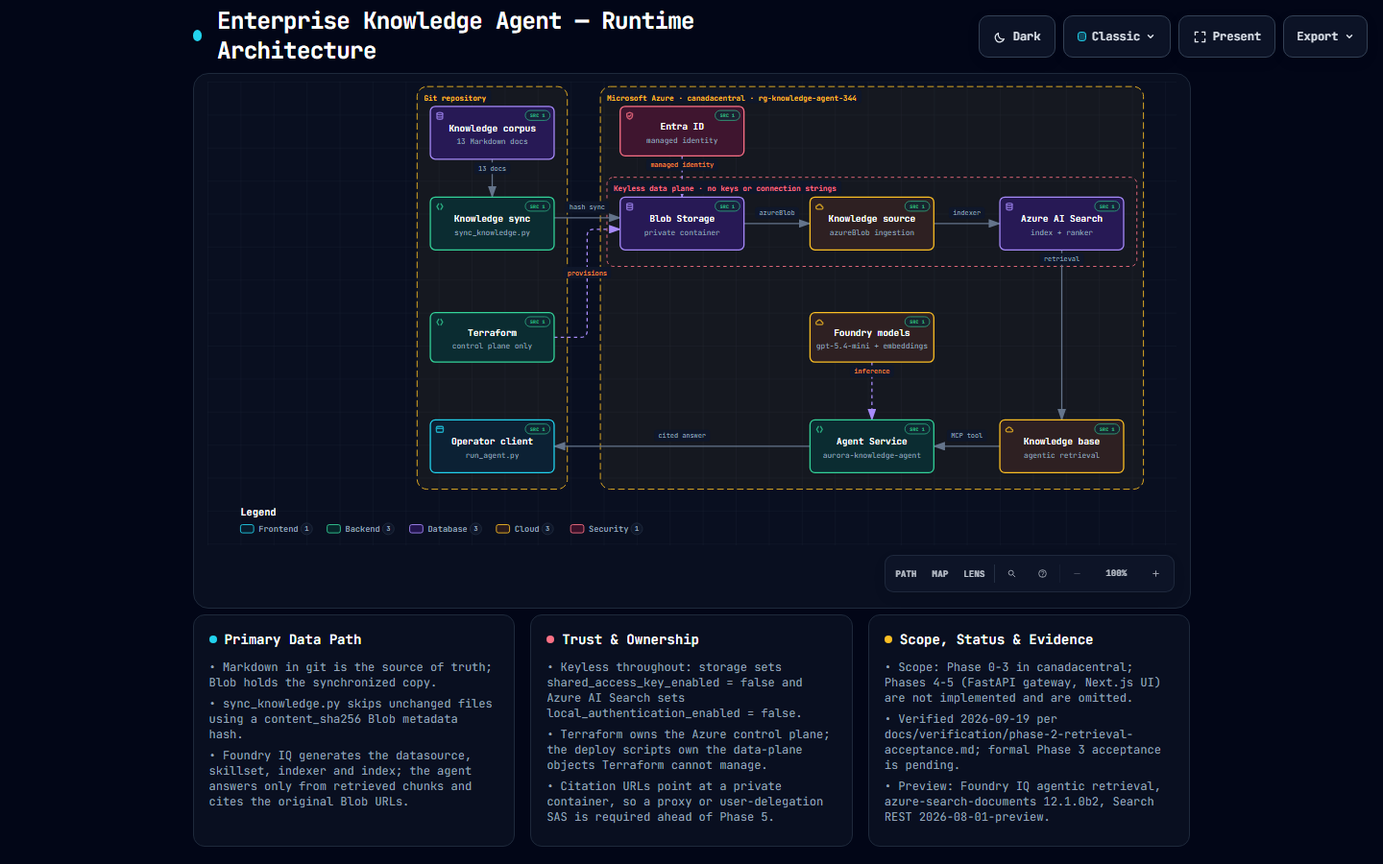
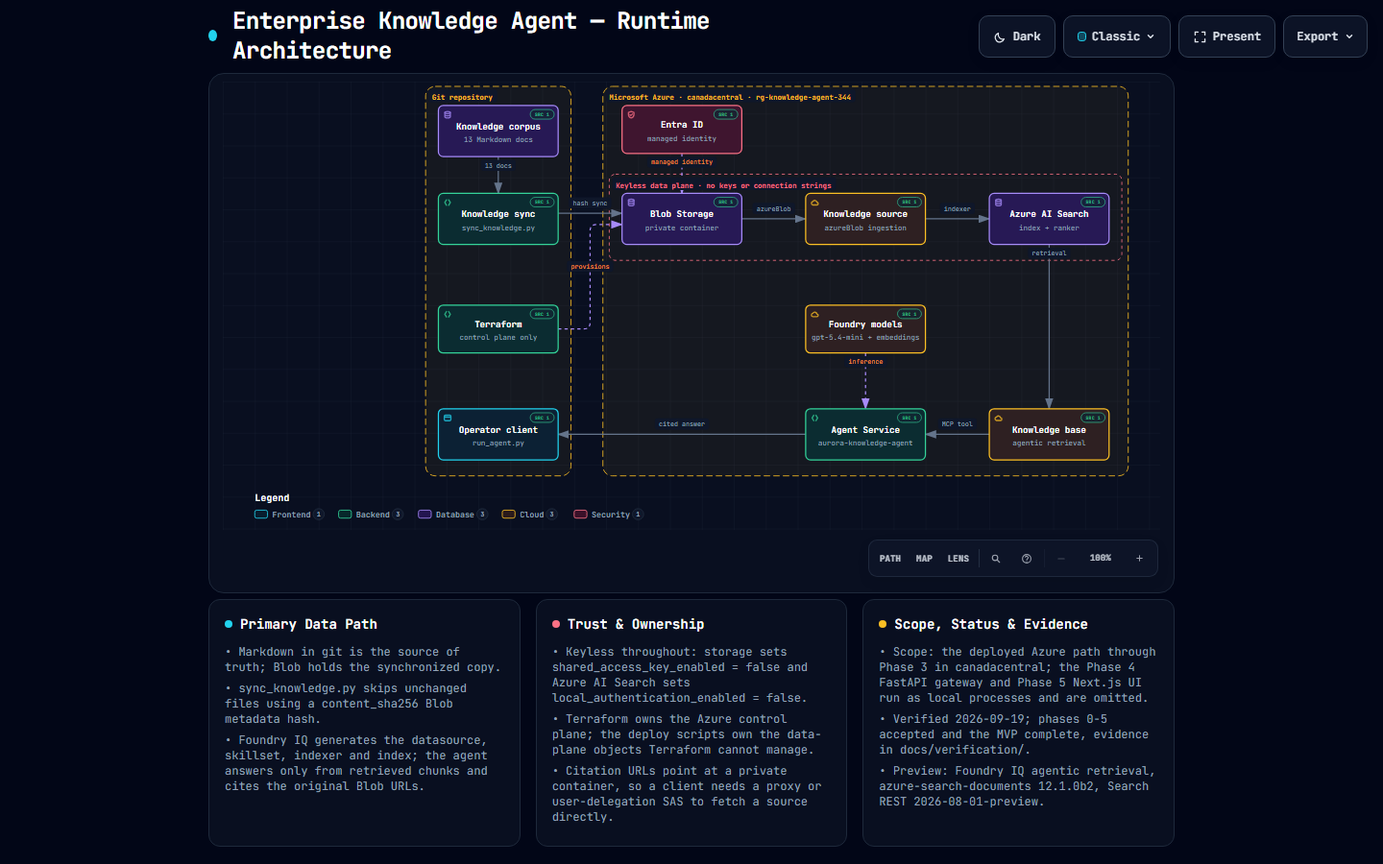
docs: regenerate the runtime architecture artifacts with archify
The diagram had been hand-edited, which broke its provenance: the HTML no longer came from a validated delivery. Regenerated it from the corrected specification through deliver, so the artifact now carries a real validation receipt, and refreshed the visual-check captures.

Delivery receipt: 9 of 9 artifact checks passed, 0 errors, 0 warnings, composition pass. Specification sha256 654fb887, artifact sha256 183bf521.

Two further corrections. The evidence anchor was pinned to revision 17600e4, seven commits behind and predating the Phase 4 and Phase 5 work the diagram now describes, so it is repinned to the current revision. And the status card still read 'phases 2 and 3 accepted', which is incomplete now that all phases through 5 are accepted and the MVP is complete.

diff --git a/docs/diagrams/runtime-architecture.html b/docs/diagrams/runtime-architecture.html
@@ -5086,7 +5086,7 @@ OTHER DEALINGS IN THE FONT SOFTWARE.
     </div>
 
     <script id="archify-guided-views-data" type="application/json">[]</script>
-    <script id="archify-source-evidence-data" type="application/json">{"schemaVersion":1,"verified":true,"repository":{"url":"https://github.com/MRJonas343/enterprise-knowledge-agent","revision":"17600e4fd0e994964ec6b8299c92c7102ce6a564","shortRevision":"17600e4","label":"MRJonas343/enterprise-knowledge-agent","href":"https://github.com/MRJonas343/enterprise-knowledge-agent/tree/17600e4fd0e994964ec6b8299c92c7102ce6a564"},"referenceCount":11,"nodes":{"corpus":[{"path":"docs/verification/phase-2-retrieval-acceptance.md","line":63,"href":"https://github.com/MRJonas343/enterprise-knowledge-agent/blob/17600e4fd0e994964ec6b8299c92c7102ce6a564/docs/verification/phase-2-retrieval-acceptance.md#L63"}],"sync":[{"path":"src/scripts/sync_knowledge.py","line":144,"href":"https://github.com/MRJonas343/enterprise-knowledge-agent/blob/17600e4fd0e994964ec6b8299c92c7102ce6a564/src/scripts/sync_knowledge.py#L144"}],"blob":[{"path":"infra/terraform/storage.tf","line":2,"href":"https://github.com/MRJonas343/enterprise-knowledge-agent/blob/17600e4fd0e994964ec6b8299c92c7102ce6a564/infra/terraform/storage.tf#L2"}],"source":[{"path":"src/scripts/deploy_knowledge_base.py","line":92,"href":"https://github.com/MRJonas343/enterprise-knowledge-agent/blob/17600e4fd0e994964ec6b8299c92c7102ce6a564/src/scripts/deploy_knowledge_base.py#L92"}],"search":[{"path":"infra/terraform/search.tf","line":2,"href":"https://github.com/MRJonas343/enterprise-knowledge-agent/blob/17600e4fd0e994964ec6b8299c92c7102ce6a564/infra/terraform/search.tf#L2"}],"kb":[{"path":"src/scripts/deploy_knowledge_base.py","line":115,"href":"https://github.com/MRJonas343/enterprise-knowledge-agent/blob/17600e4fd0e994964ec6b8299c92c7102ce6a564/src/scripts/deploy_knowledge_base.py#L115"}],"agent":[{"path":"src/scripts/deploy_agent.py","line":138,"href":"https://github.com/MRJonas343/enterprise-knowledge-agent/blob/17600e4fd0e994964ec6b8299c92c7102ce6a564/src/scripts/deploy_agent.py#L138"}],"client":[{"path":"src/enterprise_knowledge_agent/run_agent.py","line":87,"href":"https://github.com/MRJonas343/enterprise-knowledge-agent/blob/17600e4fd0e994964ec6b8299c92c7102ce6a564/src/enterprise_knowledge_agent/run_agent.py#L87"}],"identity":[{"path":"infra/terraform/storage.tf","line":11,"href":"https://github.com/MRJonas343/enterprise-knowledge-agent/blob/17600e4fd0e994964ec6b8299c92c7102ce6a564/infra/terraform/storage.tf#L11"}],"models":[{"path":"infra/terraform/main.tf","line":59,"href":"https://github.com/MRJonas343/enterprise-knowledge-agent/blob/17600e4fd0e994964ec6b8299c92c7102ce6a564/infra/terraform/main.tf#L59"}],"terraform":[{"path":"infra/terraform/main.tf","line":2,"href":"https://github.com/MRJonas343/enterprise-knowledge-agent/blob/17600e4fd0e994964ec6b8299c92c7102ce6a564/infra/terraform/main.tf#L2"}]}}</script>
+    <script id="archify-source-evidence-data" type="application/json">{"schemaVersion":1,"verified":true,"repository":{"url":"https://github.com/MRJonas343/enterprise-knowledge-agent","revision":"56497a262202e9e9a12d956f1367487531ea5521","shortRevision":"56497a2","label":"MRJonas343/enterprise-knowledge-agent","href":"https://github.com/MRJonas343/enterprise-knowledge-agent/tree/56497a262202e9e9a12d956f1367487531ea5521"},"referenceCount":11,"nodes":{"corpus":[{"path":"docs/verification/phase-2-retrieval-acceptance.md","line":63,"href":"https://github.com/MRJonas343/enterprise-knowledge-agent/blob/56497a262202e9e9a12d956f1367487531ea5521/docs/verification/phase-2-retrieval-acceptance.md#L63"}],"sync":[{"path":"src/scripts/sync_knowledge.py","line":144,"href":"https://github.com/MRJonas343/enterprise-knowledge-agent/blob/56497a262202e9e9a12d956f1367487531ea5521/src/scripts/sync_knowledge.py#L144"}],"blob":[{"path":"infra/terraform/storage.tf","line":2,"href":"https://github.com/MRJonas343/enterprise-knowledge-agent/blob/56497a262202e9e9a12d956f1367487531ea5521/infra/terraform/storage.tf#L2"}],"source":[{"path":"src/scripts/deploy_knowledge_base.py","line":92,"href":"https://github.com/MRJonas343/enterprise-knowledge-agent/blob/56497a262202e9e9a12d956f1367487531ea5521/src/scripts/deploy_knowledge_base.py#L92"}],"search":[{"path":"infra/terraform/search.tf","line":2,"href":"https://github.com/MRJonas343/enterprise-knowledge-agent/blob/56497a262202e9e9a12d956f1367487531ea5521/infra/terraform/search.tf#L2"}],"kb":[{"path":"src/scripts/deploy_knowledge_base.py","line":115,"href":"https://github.com/MRJonas343/enterprise-knowledge-agent/blob/56497a262202e9e9a12d956f1367487531ea5521/src/scripts/deploy_knowledge_base.py#L115"}],"agent":[{"path":"src/scripts/deploy_agent.py","line":138,"href":"https://github.com/MRJonas343/enterprise-knowledge-agent/blob/56497a262202e9e9a12d956f1367487531ea5521/src/scripts/deploy_agent.py#L138"}],"client":[{"path":"src/enterprise_knowledge_agent/run_agent.py","line":87,"href":"https://github.com/MRJonas343/enterprise-knowledge-agent/blob/56497a262202e9e9a12d956f1367487531ea5521/src/enterprise_knowledge_agent/run_agent.py#L87"}],"identity":[{"path":"infra/terraform/storage.tf","line":11,"href":"https://github.com/MRJonas343/enterprise-knowledge-agent/blob/56497a262202e9e9a12d956f1367487531ea5521/infra/terraform/storage.tf#L11"}],"models":[{"path":"infra/terraform/main.tf","line":59,"href":"https://github.com/MRJonas343/enterprise-knowledge-agent/blob/56497a262202e9e9a12d956f1367487531ea5521/infra/terraform/main.tf#L59"}],"terraform":[{"path":"infra/terraform/main.tf","line":2,"href":"https://github.com/MRJonas343/enterprise-knowledge-agent/blob/56497a262202e9e9a12d956f1367487531ea5521/infra/terraform/main.tf#L2"}]}}</script>
     <script id="archify-i18n-data" type="application/json">{"locale":"en","messages":{"viewer.kind.frontend":"Frontend","viewer.kind.backend":"Backend","viewer.kind.database":"Database","viewer.kind.cloud":"Cloud","viewer.kind.security":"Security","viewer.kind.messagebus":"Message bus","viewer.kind.external":"External","viewer.kind.neutral":"Neutral","viewer.kind.node":"Node","viewer.kind.start":"Start","viewer.kind.active":"Active","viewer.kind.waiting":"Waiting","viewer.kind.decision":"Decision","viewer.kind.success":"Success","viewer.kind.failure":"Failure","viewer.toolbar.actions":"Diagram actions","viewer.theme.toggle.title":"Toggle theme (T)","viewer.theme.toggle":"Toggle color theme","viewer.theme.dark":"Dark","viewer.theme.light":"Light","viewer.preset.choose.title":"Choose visual style (S cycles)","viewer.preset.choose":"Choose visual style","viewer.preset.style":"Style","viewer.preset.menu":"Visual style","viewer.preset.identity":"Visual identity","viewer.preset.cycles":"S cycles","viewer.preset.classic":"Classic","viewer.preset.classic.short":"Classic","viewer.preset.classic.hint":"Stable technical default","viewer.preset.flow":"Signal Flow","viewer.preset.flow.short":"Flow","viewer.preset.flow.hint":"Motion-forward presentation","viewer.preset.blueprint":"Blueprint","viewer.preset.blueprint.hint":"Engineering review","viewer.preset.editorial":"Editorial","viewer.preset.editorial.hint":"Publication and launch notes","viewer.preset.badge.signalFlow":"SIGNAL FLOW","viewer.preset.badge.blueprint":"BLUEPRINT / REV 01","viewer.preset.badge.editorial":"EDITORIAL / FIELD NOTE","viewer.preset.badge.editorialPlate":"ARCHIFY / PLATE 04","viewer.preset.current":"Visual style: {style}. Choose visual style","viewer.motion.live":"Live","viewer.motion.still":"Still","viewer.motion.pause":"Pause motion","viewer.motion.resume":"Resume motion","viewer.motion.reduced":"Motion paused by reduced-motion preference","viewer.motion.hidden":"Motion paused while this page is hidden","viewer.motion.yielding":"Pause motion; currently yielding to {owner}","viewer.motion.yielding.title":"Live preview enabled · yielding to {owner}","viewer.owner.story":"the guided story","viewer.owner.chapter":"the active chapter","viewer.owner.chapterPreview":"the chapter delta preview","viewer.owner.handoff":"the chapter handoff","viewer.owner.route":"Route Probe","viewer.owner.lens":"Semantic Lens","viewer.owner.relationship":"Relationship Preview","viewer.owner.intent":"Intent Trace","viewer.owner.focus":"semantic focus","viewer.owner.legend":"legend preview","viewer.owner.reader":"reader interaction","viewer.present.enter":"Enter presentation stage","viewer.present.enter.title":"Presentation stage (F)","viewer.present.exit":"Exit presentation stage","viewer.present.exit.title":"Exit presentation stage (F or Escape)","viewer.present.present":"Present","viewer.present.exit.label":"Exit","viewer.export.button":"Export","viewer.export.button.title":"Export diagram (E)","viewer.export.diagram":"Export diagram","viewer.export.menu":"Export","viewer.export.subtitle":"Portable, clean outputs","viewer.export.share":"Share","viewer.export.shareCard":"Share Card","viewer.export.routeShareCard":"Route Share Card","viewer.export.reachShareCard":"Reach Share Card","viewer.export.copyShareCard":"Copy Share Card","viewer.export.copyDiagram":"Copy diagram","viewer.export.clipboardPng":"PNG to clipboard","viewer.export.raster":"Raster images","viewer.export.image":"Image","viewer.export.lossless":"Lossless image","viewer.export.compact":"Compact image","viewer.export.modern":"Modern image","viewer.export.vectorMotion":"Vector and motion","viewer.export.vectorMotion.heading":"Vector \u0026 motion","viewer.export.editable":"Editable vector","viewer.export.motion6s":"6s motion","viewer.export.unsupported":"Not supported by this browser","viewer.export.clipboardUnsupported":"Clipboard image write not supported by this browser","viewer.export.clipboardUnsupported.period":"Clipboard image write not supported by this browser.","viewer.export.clipboardUnsupported.short":"Clipboard image write not supported in this browser.","viewer.export.motionUnavailable":"Motion capture unavailable in this browser","viewer.export.webmUnavailable":"WebM unavailable in this browser","viewer.export.failed":"Export failed: {message}","viewer.export.unknownVariant":"Unknown Share Card variant: {variant}","viewer.export.routeRequired":"Trace a route before exporting a Route Share Card","viewer.export.reachRequired":"Trace authored reach before exporting a Reach Share Card","viewer.export.unknown":"unknown","viewer.export.routeFailed":"Route Share Card export failed: {message}","viewer.export.reachFailed":"Reach Share Card export failed: {message}","viewer.export.copyFailed":"Copy failed: {message}","viewer.export.copiedPng":"Copied PNG to clipboard","viewer.export.copiedShare":"Copied Share Card","viewer.export.downloadedShare":"Downloaded Share Card","viewer.export.downloadedRoute":"Downloaded Route Share Card","viewer.export.downloadedReach":"Downloaded Reach Share Card","viewer.export.downloadedWebm":"Downloaded WebM","viewer.export.recording":"Recording 6 seconds of motion…","viewer.export.card.routeSummary.one":"Route: {source} → {target} · {count} directed hop","viewer.export.card.routeSummary.other":"Route: {source} → {target} · {count} directed hops","viewer.export.card.reachSummary":"Authored {direction} from {origin} · {nodes} · {links} · max {hops}","viewer.export.card.node.one":"{count} node","viewer.export.card.node.other":"{count} nodes","viewer.export.card.link.one":"{count} link","viewer.export.card.link.other":"{count} links","viewer.export.card.hop.one":"{count} hop","viewer.export.card.hop.other":"{count} hops","viewer.export.card.routeBadge":"ARCHIFY · ROUTE · {hops}","viewer.export.card.reachBadge":"ARCHIFY · {direction} REACH","viewer.export.card.defaultBadge":"ARCHIFY · {preset} · {theme}","viewer.export.direction.upstream":"Upstream","viewer.export.direction.downstream":"Downstream","viewer.export.error.canvasUnavailable":"Canvas unavailable for {label}","viewer.export.error.contextUnavailable":"2D canvas context unavailable for {label}","viewer.export.error.toBlobUnavailable":"canvas.toBlob unavailable for {label}","viewer.export.error.toBlobNull":"canvas.toBlob returned no data for {label}","viewer.export.error.variantsCombined":"Share Card variants cannot be combined","viewer.export.error.viewerState":"Share Card export could not remove temporary viewer state","viewer.export.error.routeState":"Route Card export could not preserve the resolved route safely","viewer.export.error.reachState":"Reach Card export could not preserve authored reach safely","viewer.export.error.webmRequirements":"WebM motion export requires a trace animation and browser MediaRecorder support","viewer.export.error.mediaRecorder":"MediaRecorder failed","viewer.export.error.emptyWebm":"MediaRecorder produced an empty WebM","viewer.export.error.webmBackground":"SVG background could not be loaded for WebM export","viewer.guided.region":"Guided diagram views","viewer.guided.previous":"Previous guided view","viewer.guided.previous.title":"Previous guided view ([)","viewer.guided.next":"Next guided view","viewer.guided.next.title":"Next guided view (])","viewer.guided.views":"Guided views","viewer.guided.explore":"Explore this system","viewer.guided.intro":"Step through curated paths without changing the source diagram.","viewer.guided.trail":"Story trail","viewer.guided.beat":"Beat","viewer.guided.nextBeat":"Next","viewer.guided.play":"Play guided story","viewer.guided.play.title":"Play guided story (P)","viewer.guided.pause":"Pause guided story","viewer.guided.pause.title":"Pause guided story (P)","viewer.guided.replay":"Replay guided story","viewer.guided.replay.title":"Replay guided story (P)","viewer.guided.playStory":"Play story","viewer.guided.pauseStory":"Pause","viewer.guided.replayStory":"Replay story","viewer.guided.motionUnavailable":"Story playback unavailable while motion is Still","viewer.guided.enableMotion":"Switch motion to Live to play the guided story","viewer.guided.selectBeatLink":"Select a Story Beat to copy its exact link","viewer.guided.copyMoment":"Copy moment","viewer.guided.momentCopied":"Moment link copied","viewer.guided.momentCopyFailed":"Could not copy story moment link","viewer.guided.copied":"Copied","viewer.guided.copyFailed":"Copy failed","viewer.guided.showAll":"Show all","viewer.guided.showAll.aria":"Show entire diagram","viewer.guided.chapters":"Story chapters","viewer.guided.storyTrail":"Story trail for {label}: {count} beats","viewer.guided.chapter.open":"Open chapter {index} of {total}: {label}, {count} stops","viewer.guided.chapter.current":"Current chapter {index} of {total}: {label}, {count} stops","viewer.guided.chapter.selectedNodes":"{count} selected nodes","viewer.guided.chapter.stops":"{count} stops","viewer.guided.chapter.stop.one":"{count} stop","viewer.guided.chapter.stop.other":"{count} stops","viewer.guided.chapter.current.title":"{label} — current chapter, {count} stops","viewer.guided.chapter.delta.expanded":"{stay} stay, {enter} enter, {leave} leave","viewer.guided.chapter.delta.aria":"Open chapter {index} of {total}: {label}. Chapter focus delta: {delta}","viewer.guided.chapter.delta.title":"{label} — {delta} chapter focus","viewer.guided.handoff":"{from} → {to} · via {label}","viewer.guided.share.chapter":"Chapter {index} / {total}","viewer.guided.share.initial":"Chapter 01 / 01","viewer.guided.share.default":"Guided chapter","viewer.guided.state.ready":"Ready","viewer.guided.state.playing":"Playing","viewer.guided.state.settled":"Settled","viewer.guided.state.paused":"Paused","viewer.guided.state.pinned":"Pinned","viewer.guided.state.still":"Still","viewer.guided.share.step":"Step {index} / {total} · {label}","viewer.guided.share.staticMoment":"{step} · Static moment","viewer.guided.share.complete":"{count} steps complete · {note}","viewer.guided.share.settled":"Path settled for reading.","viewer.guided.share.staticPath":"{count} steps · Static path","viewer.guided.share.ready":"{count} steps · Ready","viewer.guided.share.aria":"{state} chapter {index} of {total}: {label}. {beat}. {route}","viewer.guided.beat.start":"Beat {index} / {total} · {label} · starting point","viewer.guided.beat.forward":"Beat {index} / {total} · {from} → {to}","viewer.guided.beat.reverse":"Beat {index} / {total} · {from} → {to} · reverse authored link","viewer.guided.beat.multiple":"Beat {index} / {total} · {from} ⇄ {to} · {count} authored links","viewer.guided.beat.group":"Beat {index} / {total} · {from} · {to} · grouped · no direct link","viewer.guided.beat.aria.prefix":"Story beat {index} of {total}: {label}. ","viewer.guided.beat.aria.start":"Starting point.","viewer.guided.beat.aria.forward":"From {from} through one authored forward relationship.","viewer.guided.beat.aria.reverse":"From {from}; the authored relationship points from {to} to {from}.","viewer.guided.beat.aria.multiple":"From {from} through {count} authored relationships; shown without arbitrary motion.","viewer.guided.beat.aria.group":"Grouped from {from} with no direct authored relationship.","viewer.guided.caption.start":"Starting point","viewer.guided.caption.grouped":"Grouped transition · no direct authored link","viewer.guided.caption.more":" +{count} more","viewer.guided.caption.reverse":"Reverse authored relationship","viewer.guided.caption.relationships":"{count} authored relationships","viewer.guided.caption.relationship":"Authored relationship","viewer.guided.caption.direction":"authored direction: {from} → {to}","viewer.guided.caption.starting":"Authored starting point","viewer.guided.beatLink":"Copy link to current story moment: Beat {index} of {total}: {label}","viewer.guided.noStory":"This diagram has no authored guided story.","viewer.guide.eyebrow":"Diagram guide","viewer.guide.close":"Close diagram guide","viewer.guide.inspecting":"Inspecting compiled semantics","viewer.guide.actions":"Diagram exploration actions","viewer.guide.find":"Find any node","viewer.guide.find.hint":"Search labels, responsibilities, kinds, and stable IDs.","viewer.guide.route":"Trace a route","viewer.guide.route.aria":"Trace a directed route","viewer.guide.route.hint":"Ask how two semantic nodes connect in authored direction.","viewer.guide.map":"See the whole system","viewer.guide.map.hint":"Open Semantic Radar with a live viewport and stable nodes.","viewer.guide.lens":"Compare semantic kinds","viewer.guide.lens.hint":"Count roles, reveal their traffic, and compare direct authored links.","viewer.guide.story":"Play the guided story","viewer.guide.story.hint":"Walk the authored chapters and real relationships.","viewer.guide.present":"Enter Presentation Stage","viewer.guide.present.hint":"Give the live diagram the viewport without changing export.","viewer.guide.shortcuts":"Additional keyboard shortcuts","viewer.guide.shortcut.export":"Export","viewer.guide.shortcut.theme":"Theme","viewer.guide.shortcut.style":"Style","viewer.guide.shortcut.reset":"Reset","viewer.guide.shortcut.zoomIn":"Zoom in","viewer.guide.shortcut.zoomOut":"Zoom out","viewer.guide.shortcut.close":"Close","viewer.guide.facts":"{nodes} · {relationships} · {views}","viewer.guide.fact.node.one":"{count} semantic node","viewer.guide.fact.node.other":"{count} semantic nodes","viewer.guide.fact.relationship.one":"{count} relationship","viewer.guide.fact.relationship.other":"{count} relationships","viewer.guide.fact.view.one":"{count} guided view","viewer.guide.fact.view.other":"{count} guided views","viewer.guide.story.available.one":"Walk {count} authored chapter and its real relationships.","viewer.guide.story.available.other":"Walk {count} authored chapters and their real relationships.","viewer.guide.story.unavailable":"No authored guided story in this diagram.","viewer.guide.open":"Open diagram guide","viewer.guide.noStory":"This diagram has no authored guided story.","viewer.finder.title":"Find a node","viewer.finder.close":"Close node finder","viewer.finder.placeholder":"Search labels or IDs","viewer.finder.search":"Search diagram nodes","viewer.finder.results":"Diagram nodes","viewer.finder.empty":"No matching nodes","viewer.finder.result.focus":"Focus {label}","viewer.finder.result.routeStart":"Choose {label} as route start","viewer.finder.result.routeTarget":"Choose {label} as route destination, {links}","viewer.finder.status.empty":"No matching nodes","viewer.finder.status.count.one":"{count} matching node","viewer.finder.status.count.other":"{count} matching nodes","viewer.finder.noun.nodes":"nodes","viewer.finder.link.one":"{count} link","viewer.finder.link.other":"{count} links","viewer.finder.result.focus.one":"Focus {label}, {count} related connection","viewer.finder.result.focus.other":"Focus {label}, {count} related connections","viewer.finder.status.filtered":"{visible} of {available} {noun}","viewer.finder.status.all":"{available} {noun}","viewer.passport.eyebrow":"Semantic passport","viewer.passport.metadata":"Node metadata","viewer.passport.evidence":"Verified source evidence","viewer.passport.verified":"Verified source","viewer.passport.verificationScope":"Verified against local Git at the pinned revision. Remote access has not been checked.","viewer.passport.reach":"Authored reach","viewer.passport.reach.trace":"Trace authored reachability","viewer.passport.upstream":"Upstream","viewer.passport.downstream":"Downstream","viewer.passport.upstream.trace":"Trace upstream authored reachability","viewer.passport.downstream.trace":"Trace downstream authored reachability","viewer.passport.close":"Close semantic passport","viewer.passport.copy":"Copy link","viewer.passport.copy.focus":"Copy link to focused node","viewer.passport.relations":"Relations","viewer.passport.relations.show":"Show connected relationships","viewer.passport.relations.hide":"Hide connected relationships","viewer.passport.relations.list":"Connected relationships","viewer.passport.copyRelation":"Copy relation","viewer.passport.copyNode":"Copy node","viewer.passport.copyPinned":"Copy link to pinned relationship","viewer.passport.copySource":"Copy link to source node","viewer.passport.copy.focused.success":"Focused node link copied","viewer.passport.copy.pinned.success":"Pinned relationship link copied","viewer.passport.copy.focused.failed":"Could not copy focused node link","viewer.passport.copy.pinned.failed":"Could not copy pinned relationship link","viewer.passport.relationship.none":"No connected relationships","viewer.passport.relationship.count.one":"{count} relation","viewer.passport.relationship.count.other":"{count} relations","viewer.passport.relationship.show.one":"Show {count} connected relationship","viewer.passport.relationship.show.other":"Show {count} connected relationships","viewer.passport.relationship.summary":"{out} outgoing · {in} incoming{loops}","viewer.passport.relationship.loops":" · {count} loop","viewer.passport.relationship.explorer":"Direct relationship explorer","viewer.passport.relationship.help":"Use arrow keys to explore relationships. Press Enter or Space to pin details; Escape clears.","viewer.passport.relationship.loopsBack":"loops back","viewer.passport.relationship.connectsTo":"connects to","viewer.passport.relationship.connectsFrom":"connects from","viewer.passport.relationship.pinned":"Pinned relationship · {from} → {to} · {label}","viewer.passport.relationship.inspect":"Inspect relationship {index} of {total}: {from} to {to}, {label}. Press Enter for details.","viewer.passport.relationship.group.out":"Outgoing","viewer.passport.relationship.group.in":"Incoming","viewer.passport.relationship.group.loop":"Self loops","viewer.passport.relationship.row":"{group}: {relationship}, {neighbor}","viewer.passport.relationship.direction.out":"OUT →","viewer.passport.relationship.direction.in":"← IN","viewer.passport.relationship.direction.loop":"LOOP","viewer.passport.sourceCount.one":"{count} verified source reference","viewer.passport.sourceCount.other":"{count} verified source references","viewer.passport.sourceMarker":"SRC","viewer.passport.beacon.one":"{count} verified source; focus this node to inspect","viewer.passport.beacon.other":"{count} verified sources; focus this node to inspect","viewer.passport.repository.open":"Open verified repository revision {revision}","viewer.passport.source.open":"Open verified source {path} at revision {revision}","viewer.passport.source.openLink":"Open ↗","viewer.passport.reach.upstream.one":"Trace {count} upstream authored node","viewer.passport.reach.upstream.other":"Trace {count} upstream authored nodes","viewer.passport.reach.downstream.one":"Trace {count} downstream authored node","viewer.passport.reach.downstream.other":"Trace {count} downstream authored nodes","viewer.passport.reach.noUpstream":"No upstream authored nodes","viewer.passport.reach.noDownstream":"No downstream authored nodes","viewer.passport.reach.status":"{direction} · {nodes} nodes · {links} links · max {hops} hops","viewer.route.eyebrow":"Route probe","viewer.route.start":"Choose a start node","viewer.route.start.find":"Find start","viewer.route.start.find.aria":"Find a route start","viewer.route.copy":"Copy link","viewer.route.copy.aria":"Copy link to traced route","viewer.route.clear":"Clear","viewer.route.clear.aria":"Clear route probe","viewer.route.traced":"Traced route","viewer.route.pickTwo":"Pick two semantic nodes on the diagram","viewer.route.pickOne":"Pick a semantic node on the diagram","viewer.route.controls":"Route journey controls","viewer.route.previous":"Previous route position","viewer.route.play":"Play route journey","viewer.route.pause":"Pause route journey","viewer.route.replay":"Replay route journey","viewer.route.next":"Next route position","viewer.route.journey":"Journey","viewer.route.pause.label":"Pause","viewer.route.replay.label":"Replay","viewer.route.overview":"Overview","viewer.route.overview.aria":"Show complete route overview","viewer.route.instructions":"Choose the source, then the destination. Direction matters.","viewer.route.destination":"Choose a destination from {label}","viewer.route.destination.find":"Find target","viewer.route.destination.find.aria":"Find a reachable route destination","viewer.route.differentDestination":"Choose a different destination","viewer.route.distinct":"A route needs two distinct semantic nodes.","viewer.route.unreachable":"No directed route to {label}","viewer.route.unreachable.detail":"{target} is not reachable from {source}. Pick a highlighted destination.","viewer.route.start.instructions":"Select the source. The next step will reveal only directed destinations.","viewer.route.copy.success":"Traced route link copied","viewer.route.copy.failed":"Could not copy traced route link","viewer.route.position":"Route position {index} of {total}: {label}","viewer.route.step":"Step {index} of {total} · {phase} · {label}","viewer.route.motionRequired":"Automatic journey requires Live motion","viewer.route.trigger.clear":"Clear traced route","viewer.route.overview.status":"{nodes} · {hops} · shortest authored route","viewer.route.overview.node.one":"{count} node","viewer.route.overview.node.other":"{count} nodes","viewer.route.overview.hop.one":"{count} directed hop","viewer.route.overview.hop.other":"{count} directed hops","viewer.route.phase.playing":"Playing","viewer.route.phase.complete":"Complete","viewer.route.phase.inspecting":"Inspecting","viewer.route.destination.count.one":"{count} directed destination available. Pick a highlighted node.","viewer.route.destination.count.other":"{count} directed destinations available. Pick a highlighted node.","viewer.route.noOutgoing":"No outgoing route starts here. Clear and choose another source.","viewer.route.result.title":"{source} to {target}","viewer.route.finder.source.title":"Choose route start","viewer.route.finder.source.placeholder":"Search route sources","viewer.route.finder.source.empty":"No matching route sources","viewer.route.finder.source.results":"Nodes that can start a route","viewer.route.finder.source.noun":"route sources","viewer.route.finder.source.badge":"start","viewer.route.finder.target.title":"Destination from {label}","viewer.route.finder.target.placeholder":"Search reachable destinations","viewer.route.finder.target.empty":"No matching reachable destinations","viewer.route.finder.target.results":"Reachable route destinations","viewer.route.finder.target.noun":"reachable destinations","viewer.route.hop.one":"{count} hop","viewer.route.hop.other":"{count} hops","viewer.lens.eyebrow":"Semantic lens","viewer.lens.title":"Compare system roles","viewer.lens.close":"Close semantic lens","viewer.lens.instruction":"Choose up to two semantic kinds. One reveals its real traffic; two compare only direct authored relationships.","viewer.lens.kinds":"Semantic kinds","viewer.lens.choose":"Choose a kind to inspect its nodes and touching relationships.","viewer.lens.copy":"Copy link to semantic lens","viewer.lens.clear":"Clear semantic lens","viewer.lens.open":"Open semantic lens","viewer.lens.openActive":"Open active semantic lens","viewer.lens.legend":"Semantic legend","viewer.lens.legend.inspect.one":"Inspect {label}, {count} node","viewer.lens.legend.inspect.other":"Inspect {label}, {count} nodes","viewer.lens.kind.count.one":"{label}, {count} node","viewer.lens.kind.count.other":"{label}, {count} nodes","viewer.lens.compare.one":"{first} → {second}: {forward} · {second} → {first}: {reverse} · {count} direct relationship","viewer.lens.compare.other":"{first} → {second}: {forward} · {second} → {first}: {reverse} · {count} direct relationships","viewer.lens.single":"{nodes} · {relationships} · connected peers remain visible","viewer.lens.node.one":"{count} {label} node","viewer.lens.node.other":"{count} {label} nodes","viewer.lens.relationship.one":"{count} touching relationship","viewer.lens.relationship.other":"{count} touching relationships","viewer.radar.title":"Semantic radar","viewer.radar.building":"Building overview","viewer.radar.openFull":"Open full semantic radar","viewer.radar.open":"Open radar","viewer.radar.close":"Close semantic radar","viewer.radar.surface":"Diagram overview. Click a node to focus it, or use arrow keys to pan.","viewer.radar.click":"Click node","viewer.radar.drag":"Drag to pan","viewer.radar.space":"Semantic radar needs more MAP space.","viewer.radar.nodes":"Semantic diagram radar nodes","viewer.radar.focus":"Focus {label} from Semantic Radar","viewer.radar.status":"{count} nodes · {viewport}","viewer.radar.fullMap":"{count} nodes · full map","viewer.radar.compacted":"Radar compacted to avoid covering the Semantic Passport or MAP controls.","viewer.radar.cancelWaiting":"Cancel semantic radar waiting for more MAP space","viewer.radar.needsSpace":"Semantic radar needs more visible MAP space","viewer.radar.viewport.full":"full map","viewer.radar.viewport.width":"{percent}% width","viewer.radar.viewport.scale":"{percent}% viewport","viewer.nav.controls":"Diagram view controls","viewer.nav.route":"Trace a directed route","viewer.nav.route.title":"Trace route (R)","viewer.nav.route.short":"PATH","viewer.nav.radar":"Open semantic radar","viewer.nav.radar.title":"Semantic radar (M)","viewer.nav.radar.short":"MAP","viewer.nav.lens":"Open semantic lens","viewer.nav.lens.title":"Semantic lens (L)","viewer.nav.lens.short":"LENS","viewer.nav.find":"Find a node","viewer.nav.find.title":"Find a node (/)","viewer.nav.guide":"Open diagram guide","viewer.nav.guide.title":"Diagram guide (?)","viewer.nav.zoomOut":"Zoom out","viewer.nav.zoomOut.title":"Zoom out (-)","viewer.nav.reset":"Reset diagram view","viewer.nav.reset.title":"Reset view (0)","viewer.nav.read":"READ","viewer.nav.zoomIn":"Zoom in","viewer.nav.zoomIn.title":"Zoom in (+)","viewer.nav.camera":"{hint}. Reset diagram view","viewer.nav.camera.title":"{semantic}{hint} · reset view (0)","viewer.nav.camera.semantic":"Semantic camera active · ","viewer.nav.level.map":"MAP","viewer.nav.level.read":"READ","viewer.nav.level.full":"FULL","viewer.nav.level.auto":"AUTO","viewer.nav.detail.map":"Zoom in to reveal relationship labels and node context","viewer.nav.detail.read":"Zoom in again to reveal tags and annotations","viewer.nav.detail.full":"Full diagram detail","viewer.intent.summary":"{label}. {out} outgoing, {in} incoming{loops}. {total} connections. Press Enter for details.","viewer.intent.loops":", {count} self loop","viewer.common.copied":"Copied","viewer.common.copyFailed":"Copy failed","viewer.common.copyLink":"Copy link","viewer.common.clear":"Clear","viewer.common.close":"Close"}}</script>
     <div class="guided-views no-print" id="guided-views" hidden aria-label="Guided diagram views">
       <button id="guided-view-prev" type="button" aria-label="Previous guided view" title="Previous guided view ([)">&#8592;</button>
@@ -5613,7 +5613,7 @@ OTHER DEALINGS IN THE FONT SOFTWARE.
         </div>
         <ul>
           <li>&bull; Scope: the deployed Azure path through Phase 3 in canadacentral; the Phase 4 FastAPI gateway and Phase 5 Next.js UI run as local processes and are omitted.</li>
-          <li>&bull; Verified 2026-09-19; phases 2 and 3 accepted, evidence in docs/verification/.</li>
+          <li>&bull; Verified 2026-09-19; phases 0-5 accepted and the MVP complete, evidence in docs/verification/.</li>
           <li>&bull; Preview: Foundry IQ agentic retrieval, azure-search-documents 12.1.0b2, Search REST 2026-08-01-preview.</li>
         </ul>
       </div>
